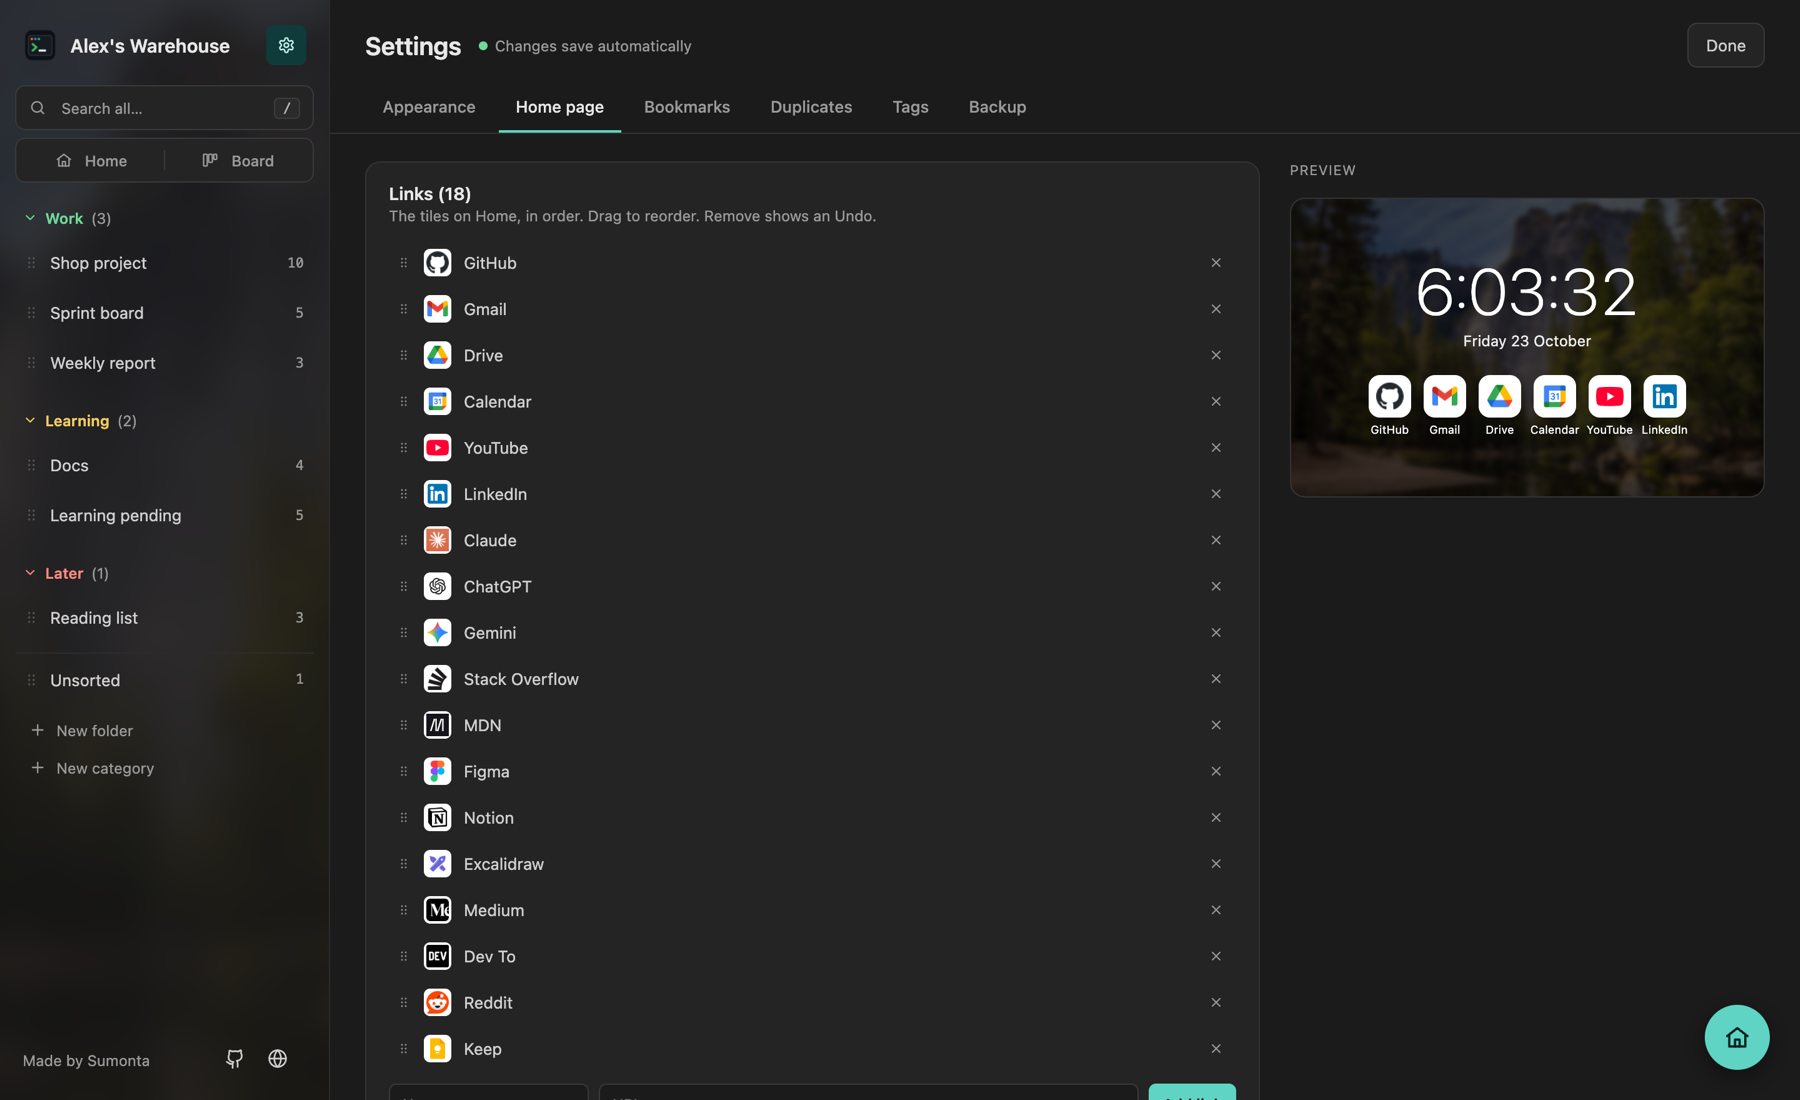
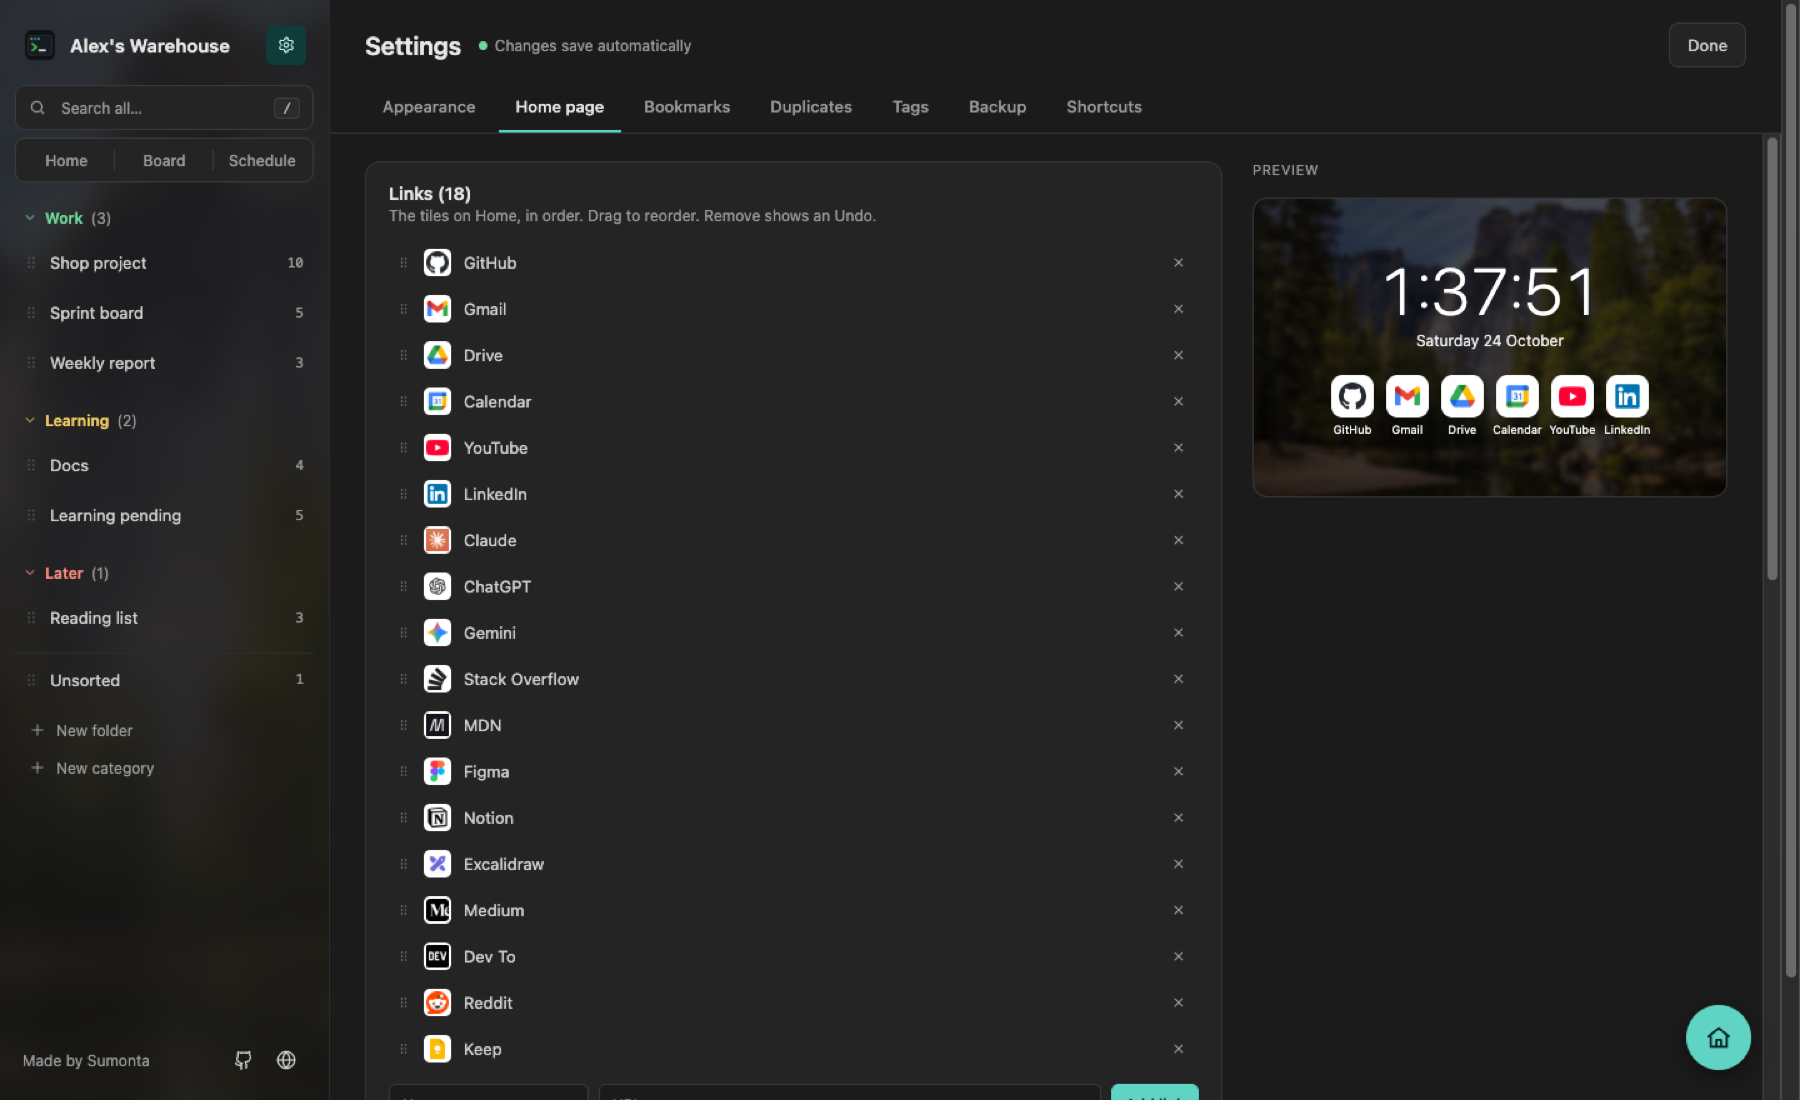
docs(site): add the Schedule view and refresh the screenshots
New Schedule feature block and screenshot. The demo gets 4 more
due dates. Every demo screenshot is retaken for the new view tabs
and the due chips on the right.

diff --git a/site/index.html b/site/index.html
@@ -278,16 +278,40 @@
           <figure class="frame">
             <img
               src="screenshots/due.png"
-              alt="Learning pending folder: one link has a red Overdue chip, one a highlighted chip for a date in 2 days, one a plain chip for a later date"
+              alt="Learning pending folder: one link has a red Overdue chip, one a highlighted chip for a date in 2 days, one a plain chip for a later date, each on the right of its row"
               loading="lazy"
               width="1800"
-              height="1007"
+              height="1100"
               data-zoom
             />
           </figure>
         </div>
 
         <div class="wrap feature">
+          <div class="txt">
+            <h3>Schedule</h3>
+            <p>One list of every link with a due date, from all folders. The oldest overdue link is at the top, so nothing slips.</p>
+            <ul>
+              <li>Groups: Overdue, Today, Next 7 days and Later</li>
+              <li>Each row shows its folder and section</li>
+              <li>The dates line up on the right of every row</li>
+              <li>Delete with undo; drag a row to a folder to move it</li>
+            </ul>
+            <a class="more" href="#demo" data-demo="newtab">Try it in the demo →</a>
+          </div>
+          <figure class="frame">
+            <img
+              src="screenshots/schedule.png"
+              alt="Schedule view: links from several folders in Overdue, Today, Next 7 days and Later groups, each with its folder name and a due chip on the right"
+              loading="lazy"
+              width="1800"
+              height="1100"
+              data-zoom
+            />
+          </figure>
+        </div>
+
+        <div class="wrap feature flip">
           <div class="txt">
             <h3>Board</h3>
             <p>
@@ -314,7 +338,7 @@
           </figure>
         </div>
 
-        <div class="wrap feature flip">
+        <div class="wrap feature">
           <div class="txt">
             <h3>Tag matrix</h3>
             <p>
@@ -339,7 +363,7 @@
           </figure>
         </div>
 
-        <div class="wrap feature">
+        <div class="wrap feature flip">
           <div class="txt">
             <h3>Categories and drag and drop</h3>
             <p>
@@ -348,7 +372,7 @@
             </p>
             <ul>
               <li>Drop a link on a folder to move it there</li>
-              <li>Home and Board tabs sit under a full-width search</li>
+              <li>Home, Board and Schedule tabs sit under a full-width search</li>
               <li>Alt+↑ / Alt+↓ moves a folder with the keyboard</li>
               <li>Resizable sidebar, 180–440 px</li>
             </ul>
@@ -365,7 +389,7 @@
           </figure>
         </div>
 
-        <div class="wrap feature flip">
+        <div class="wrap feature">
           <div class="txt">
             <h3>Command palette and search</h3>
             <p>

diff --git a/site/demo/demo-chrome.js b/site/demo/demo-chrome.js
@@ -123,6 +123,10 @@
     [ids['The Rust book']]: { note: 'Finish chapter 4 on ownership', due: dayFromNow(-3) },
     [ids['web.dev: Learn performance']]: { due: `${dayFromNow(2)}T10:00` },
     [ids['Refactoring UI']]: { due: dayFromNow(40) },
+    [ids['Release checklist']]: { pri: 'high', due: `${dayFromNow(0)}T16:00` },
+    [ids['Standup notes']]: { due: dayFromNow(0) },
+    [ids['Waiting on design review']]: { note: 'Ping the designer', due: dayFromNow(-1) },
+    [ids['Team metrics']]: { due: dayFromNow(5) },
   });
 
   const fresh = () => {

diff --git a/README.md b/README.md
@@ -117,6 +117,8 @@ Developers keep the same page open in many versions: live, test, staging and `lo
 
 ![Learning pending folder with a red Overdue chip, a highlighted chip for a date in 2 days and a plain chip for a later date](site/screenshots/due.png)
 
+![Schedule view: links from several folders in Overdue, Today, Next 7 days and Later groups, each with its folder name and a due chip on the right](site/screenshots/schedule.png)
+
 ![Docs folder with High, Medium and Other groups, a colored stripe and a note under the URL](site/screenshots/notes.png)
 
 ### Tags
